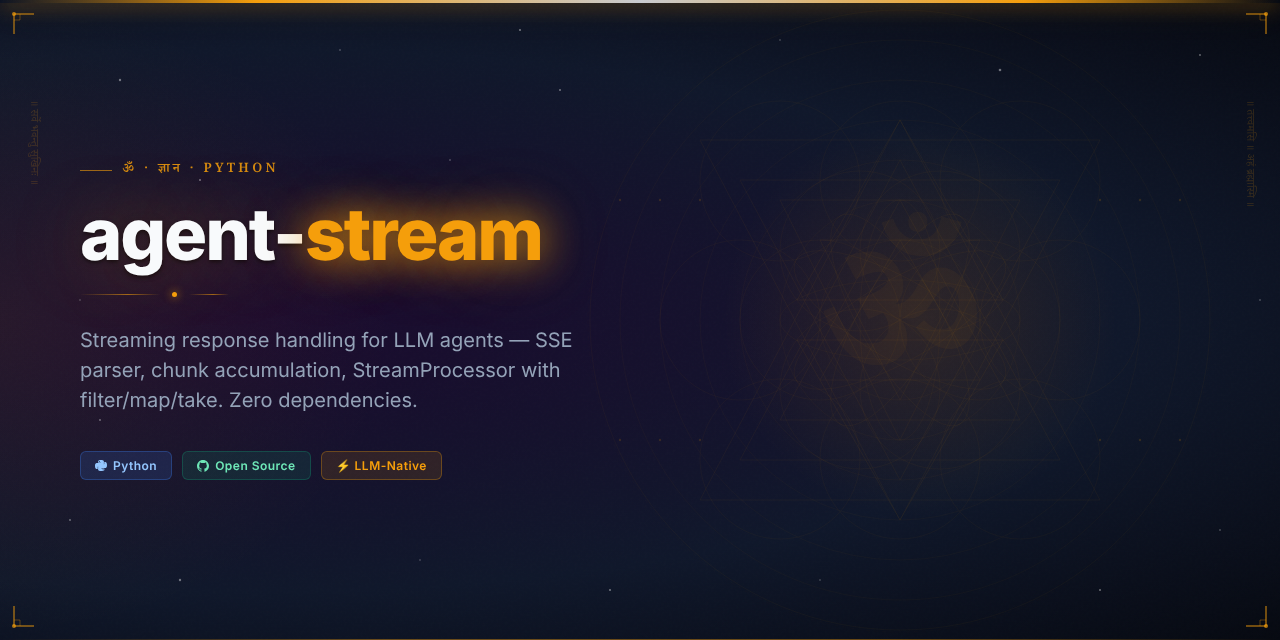
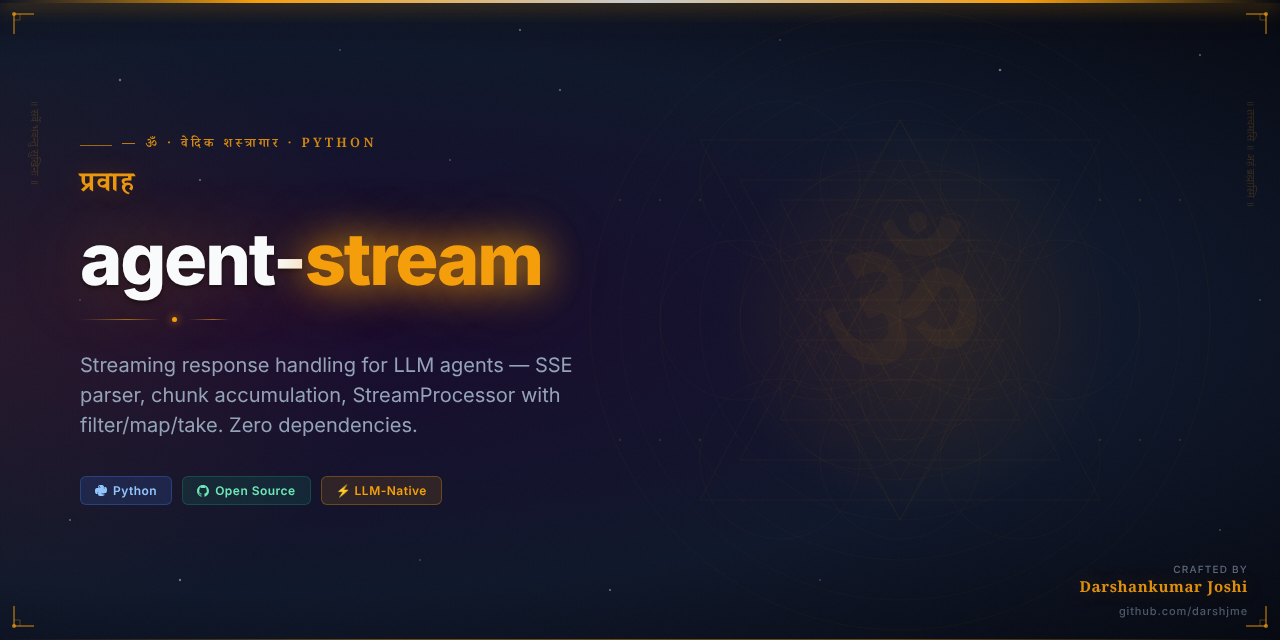
feat: add Vedic Arsenal hero image and updated README
Part of darshjme/arsenal — 100 production-grade Python libraries for LLM agents.
Vedic branding: ancient philosophy meets modern AI engineering.

diff --git a/README.md b/README.md
@@ -1,10 +1,12 @@
 <div align="center">
 
-<img src="assets/agent-stream-hero.png" alt="agent-stream — Vedic Arsenal" width="100%" />
+<img src="assets/agent-stream-hero.png" alt="agent-stream — Vedic Arsenal by Darshankumar Joshi" width="100%" />
 
 # ⚡ agent-stream
 
-### *प्रवाह* — Pravah — the sacred stream of consciousness
+<h3><em>प्रवाह</em></h3>
+
+> *Pravah — the sacred stream of consciousness*
 
 **Streaming response handling for LLM agents — SSE parser, chunk accumulation, StreamProcessor with filter/map/take. Zero dependencies.**
 
@@ -39,6 +41,19 @@ Or clone directly:
 git clone https://github.com/darshjme/agent-stream.git
 cd agent-stream
 pip install -e .
+```
+
+## How It Works
+
+```mermaid
+flowchart LR
+    A[Input] --> B[agent-stream]
+    B --> C{Process}
+    C -- Success --> D[Output]
+    C -- Error --> E[Handle / Retry]
+    E --> B
+    style B fill:#6b21a8,color:#fff
+    note["Stream — Zero Dependencies"]
 ```
 
 ## Quick Start
@@ -90,7 +105,7 @@ MIT — use freely, build freely.
 
 <div align="center">
 
-**Built with ⚡ by [Darshankumar Joshi](https://github.com/darshjme)**
+**Built with ⚡ by [Darshankumar Joshi](https://github.com/darshjme)** · [@thedarshanjoshi](https://twitter.com/thedarshanjoshi)
 
 *"कर्मण्येवाधिकारस्ते मा फलेषु कदाचन"*
 *Your right is to action alone, never to the fruits thereof.*
